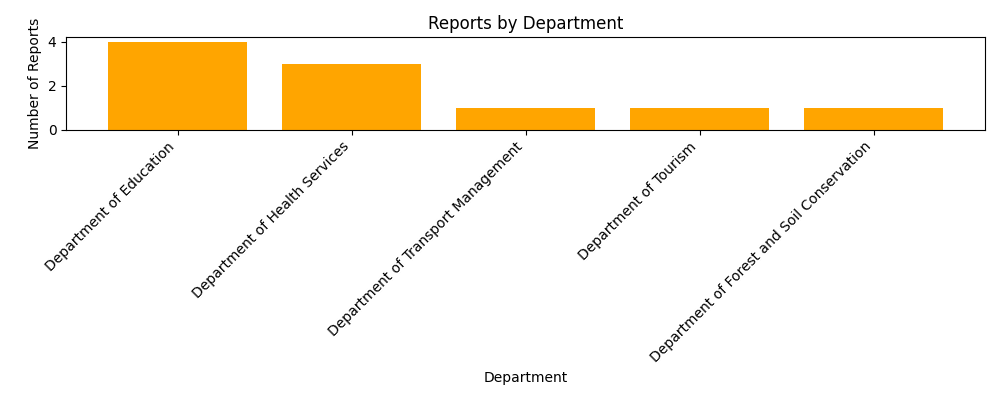
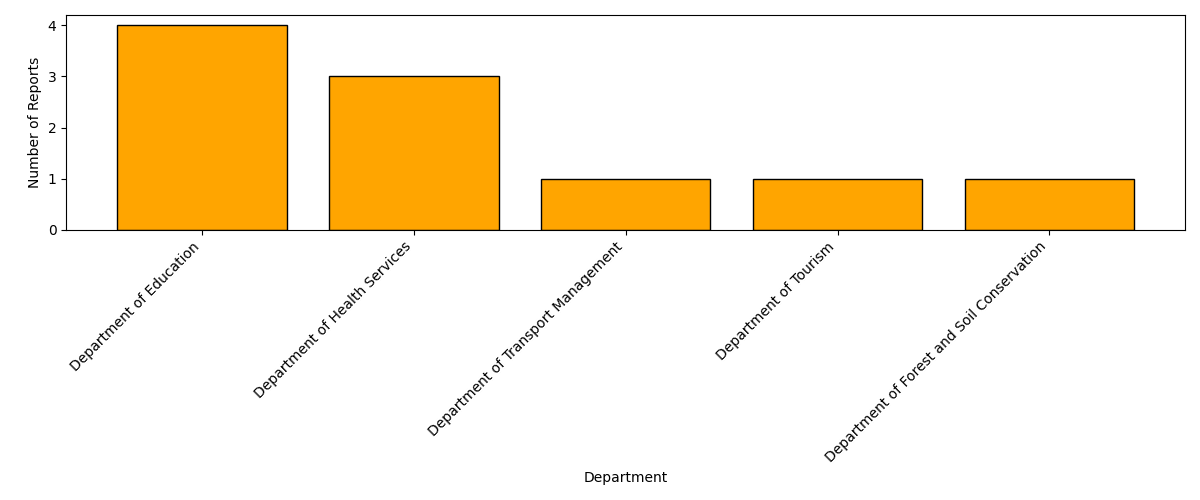
Enhance the visual

diff --git a/adminPanel/admin.py b/adminPanel/admin.py
@@ -57,15 +57,24 @@ def view_reports():
     os.makedirs(graph_dir, exist_ok=True)
 
     loc_graph_path = os.path.join(graph_dir, 'location_graph.png')
-    plt.figure(figsize=(10, 4))
-    plt.bar(district, district_counts, color='skyblue')
-    plt.xlabel('Location')
-    plt.ylabel('Number of Reports')
-    plt.title('Reports by district')
-    plt.xticks(rotation=45, ha='right')
+    
+    plt.figure(figsize=(12, 5))
+    bars = plt.bar(district, district_counts, color='#3b82f6', edgecolor='black')
+
+    # Add data labels on top of each bar
+    for bar in bars:
+        yval = bar.get_height()
+        plt.text(bar.get_x() + bar.get_width() / 2, yval + 0.3, yval, ha='center', va='bottom', fontsize=9)
+
+    plt.grid(axis='y', linestyle='--', alpha=0.6)
+    plt.xlabel('District', fontsize=12, weight='bold')
+    plt.ylabel('Number of Reports', fontsize=12, weight='bold')
+    plt.xticks(rotation=45, ha='right', fontsize=10)
+    plt.yticks(fontsize=10)
     plt.tight_layout()
     plt.savefig(loc_graph_path)
     plt.close()
+
 
     # Generate Department Graph 
     cursor.execute("""
@@ -81,11 +90,10 @@ def view_reports():
     dept_counts = [count for _, count in filtered_dept_data]
 
     dept_graph_path = os.path.join(graph_dir, 'department_graph.png')
-    plt.figure(figsize=(10, 4))
-    plt.bar(departments, dept_counts, color='orange')
+    plt.figure(figsize=(12, 5))
+    plt.bar(departments, dept_counts, color='orange',edgecolor='black')
     plt.xlabel('Department')
     plt.ylabel('Number of Reports')
-    plt.title('Reports by Department')
     plt.xticks(rotation=45, ha='right')
     plt.tight_layout()
     plt.savefig(dept_graph_path)
